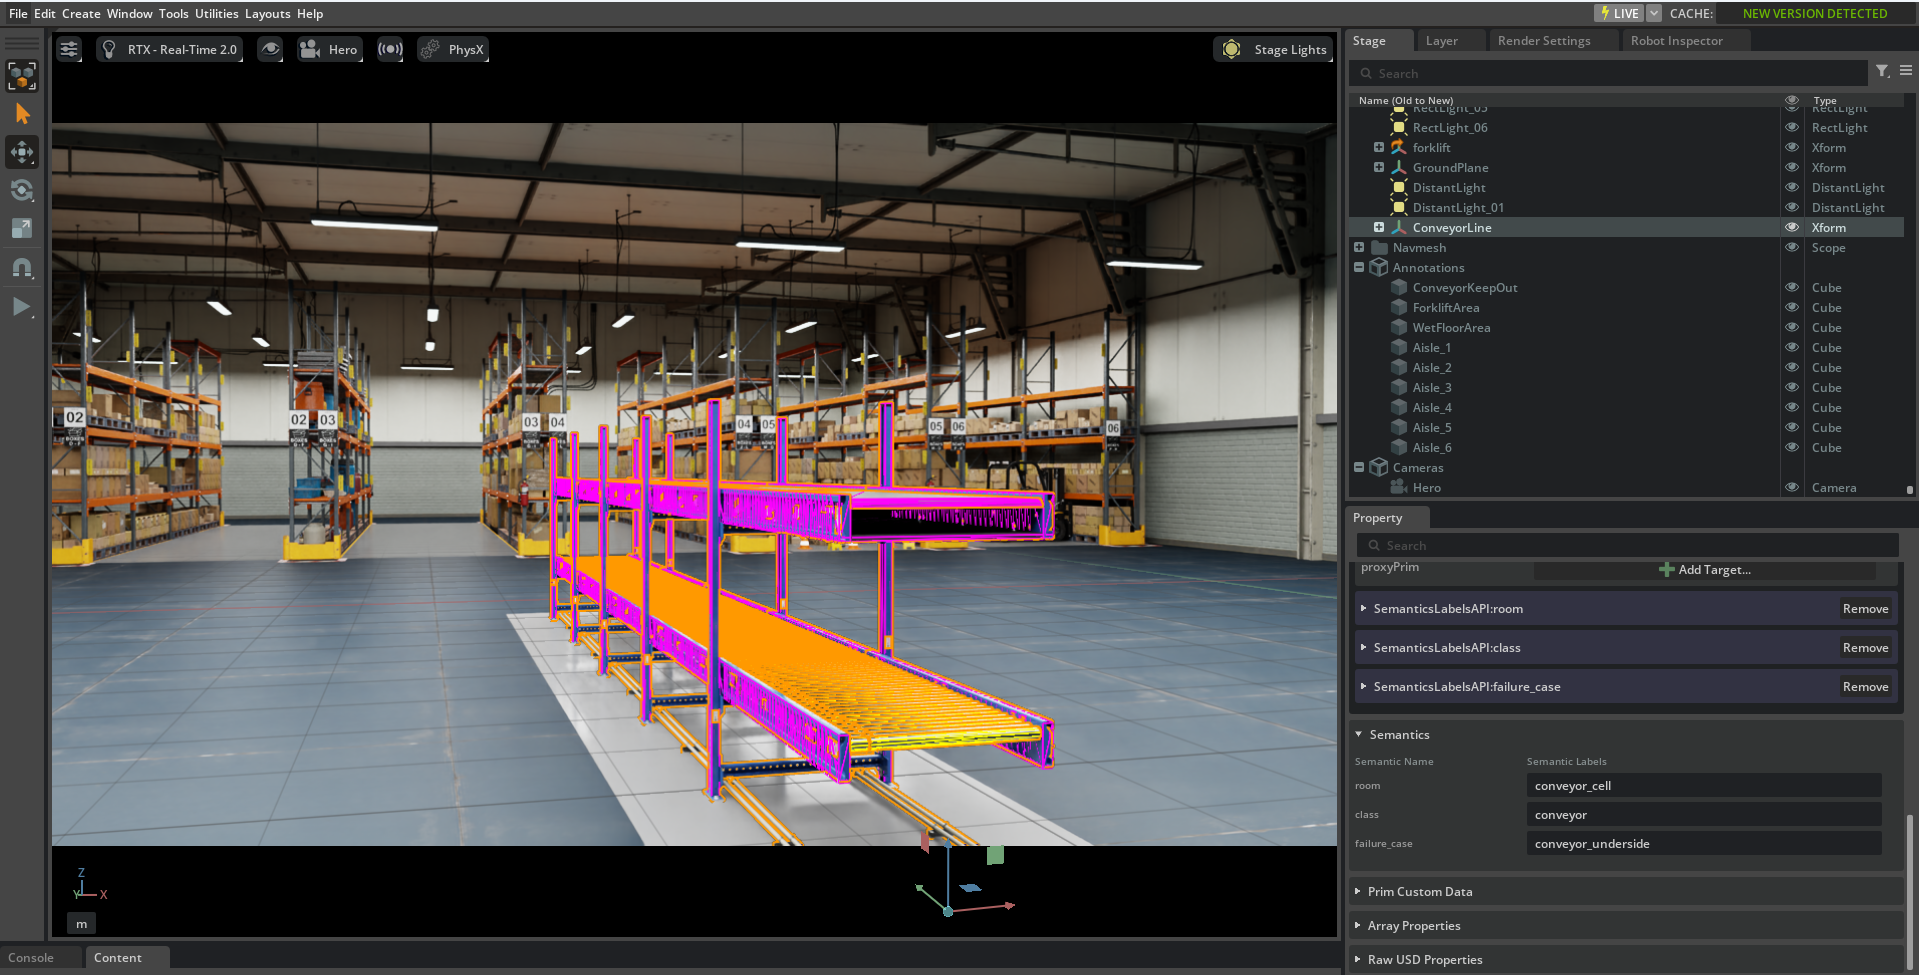
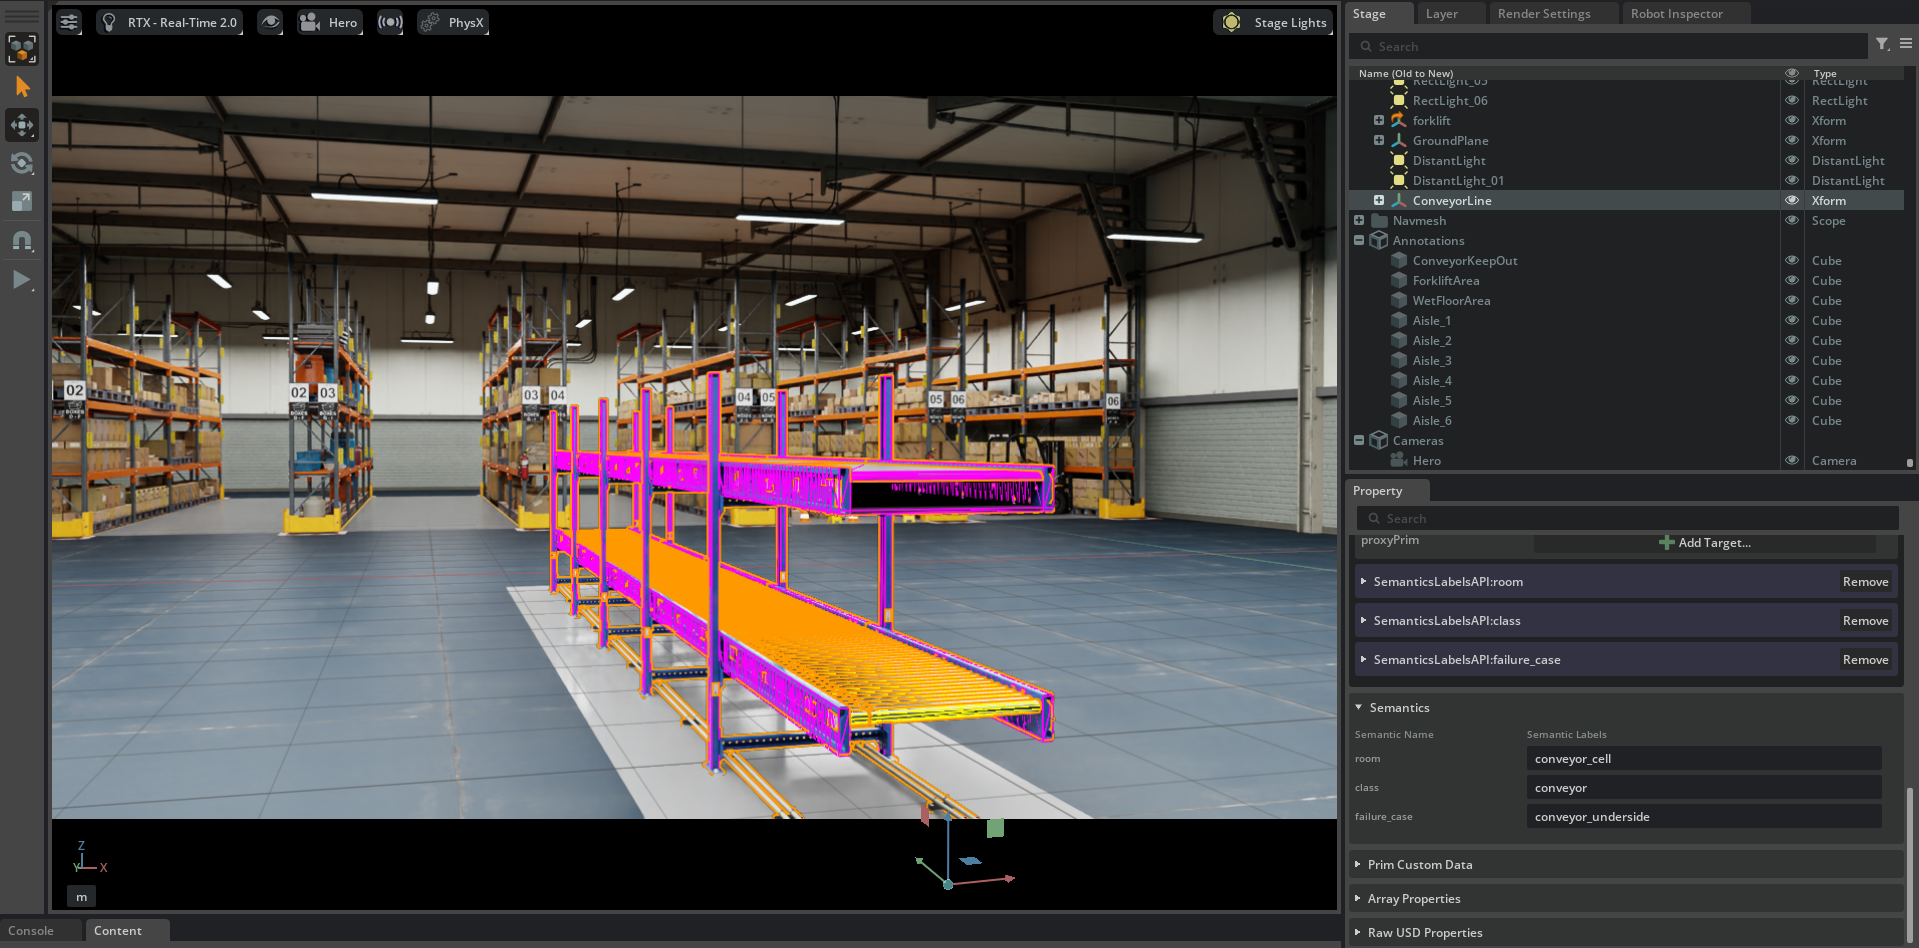
Drop the unchecked standard claim and crop the menu bar from a screenshot

diff --git a/configs/warehouse_assumptions.md b/configs/warehouse_assumptions.md
@@ -28,4 +28,4 @@ Values in `warehouse.json` that were chosen for this demo and would be confirmed
 | Aisle clear width | The narrowest gap between objects facing each other from the two rack rows, counting objects below 2 m (3.59-3.79 m), not the rack frame spacing (3.95 m) | Pallets, boxes sticking out and rack-end guards are what limit a robot | Robots are taller than 2 m, or the client wants the width at a specific height |
 | Known limit: aisle width is fixed to one pair | Each aisle's width is measured between the pair that was narrowest when the config was written | If pallets or boxes are moved, another spot may become narrowest; the config would need updating | The scene changes (re-run the narrowest-point check) |
 | Known limit: conveyor floor bar | The 6.8 cm bar along the floor under the conveyor has no collider (NVIDIA's simplified shapes don't include it, and the detailed frame is not collidable) | Robots shouldn't be under the line: the keep-out zone covers it | A test drives robots under the line: the bar needs its own collider |
-| Conveyor keep-out margin | 0.5 m on every side | Covers robot position error, boxes overhanging and stopping distance; about 0.5 m is the clearance common AGV/AMR standards ask for (check exact wording before quoting) | People work at the line (about 1.0 m), or a robot must load or unload it (no keep-out at the loading end) |
+| Conveyor keep-out margin | 0.5 m on every side | Covers robot position error, boxes overhanging and stopping distance. A starting value: replace it with the site's own safety rules | People work at the line (about 1.0 m), or a robot must load or unload it (no keep-out at the loading end) |
